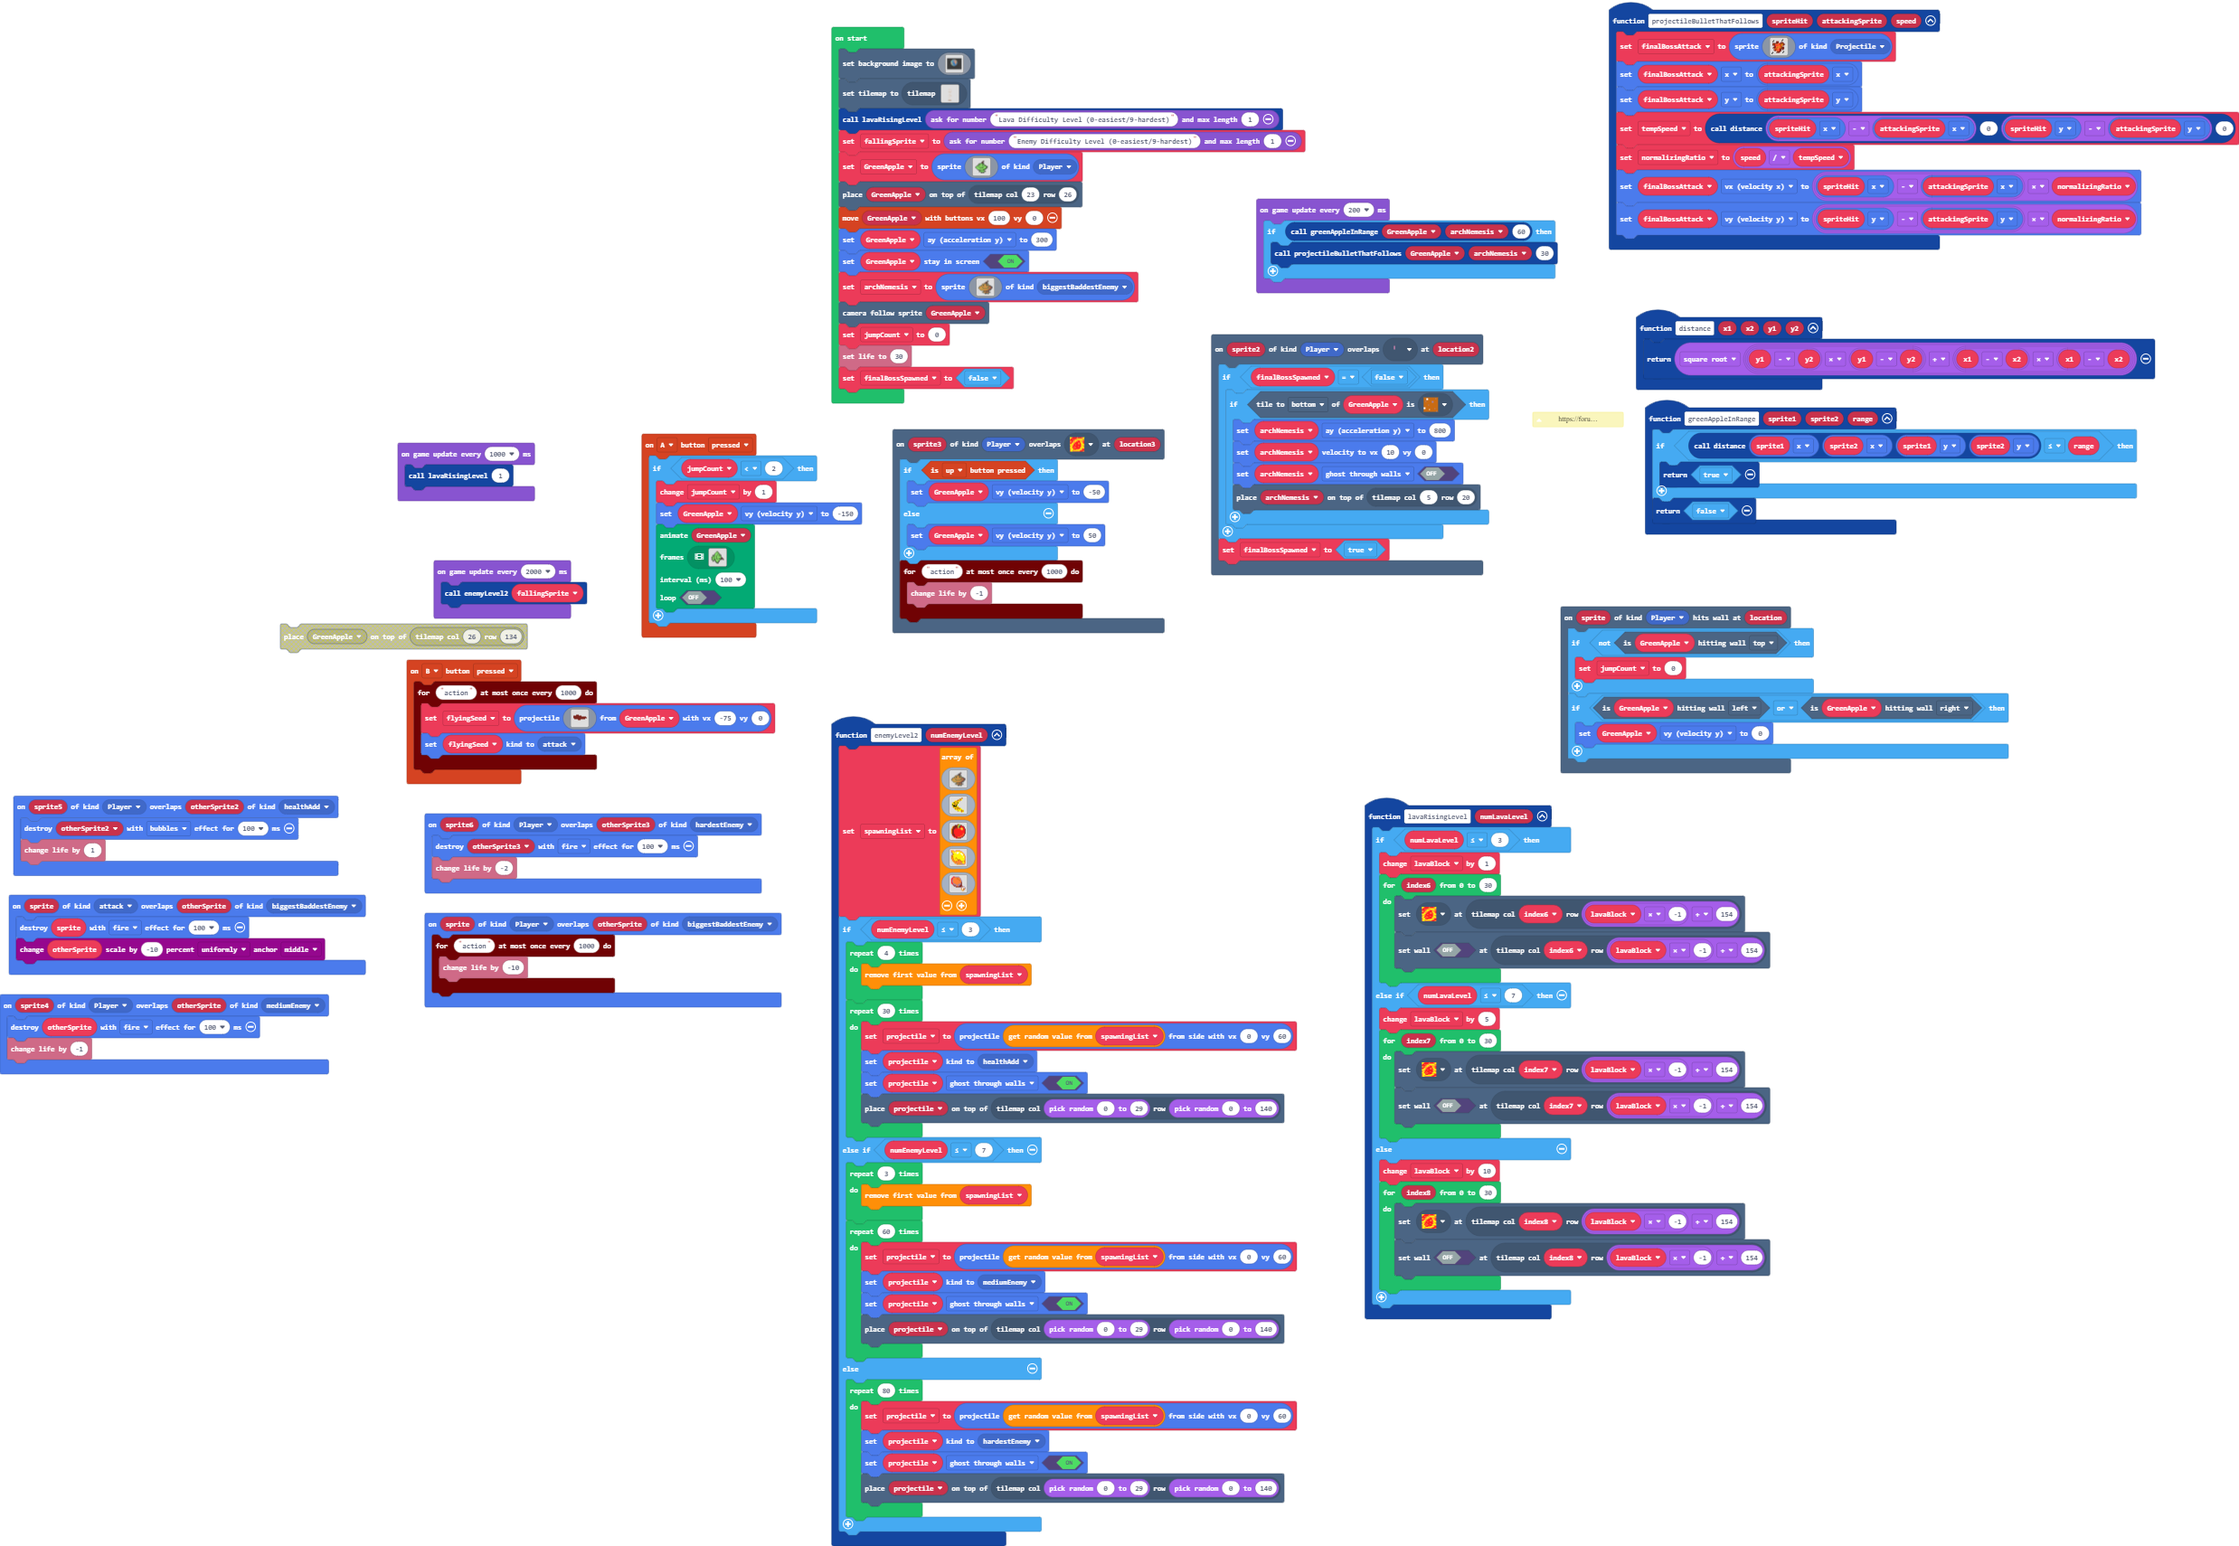
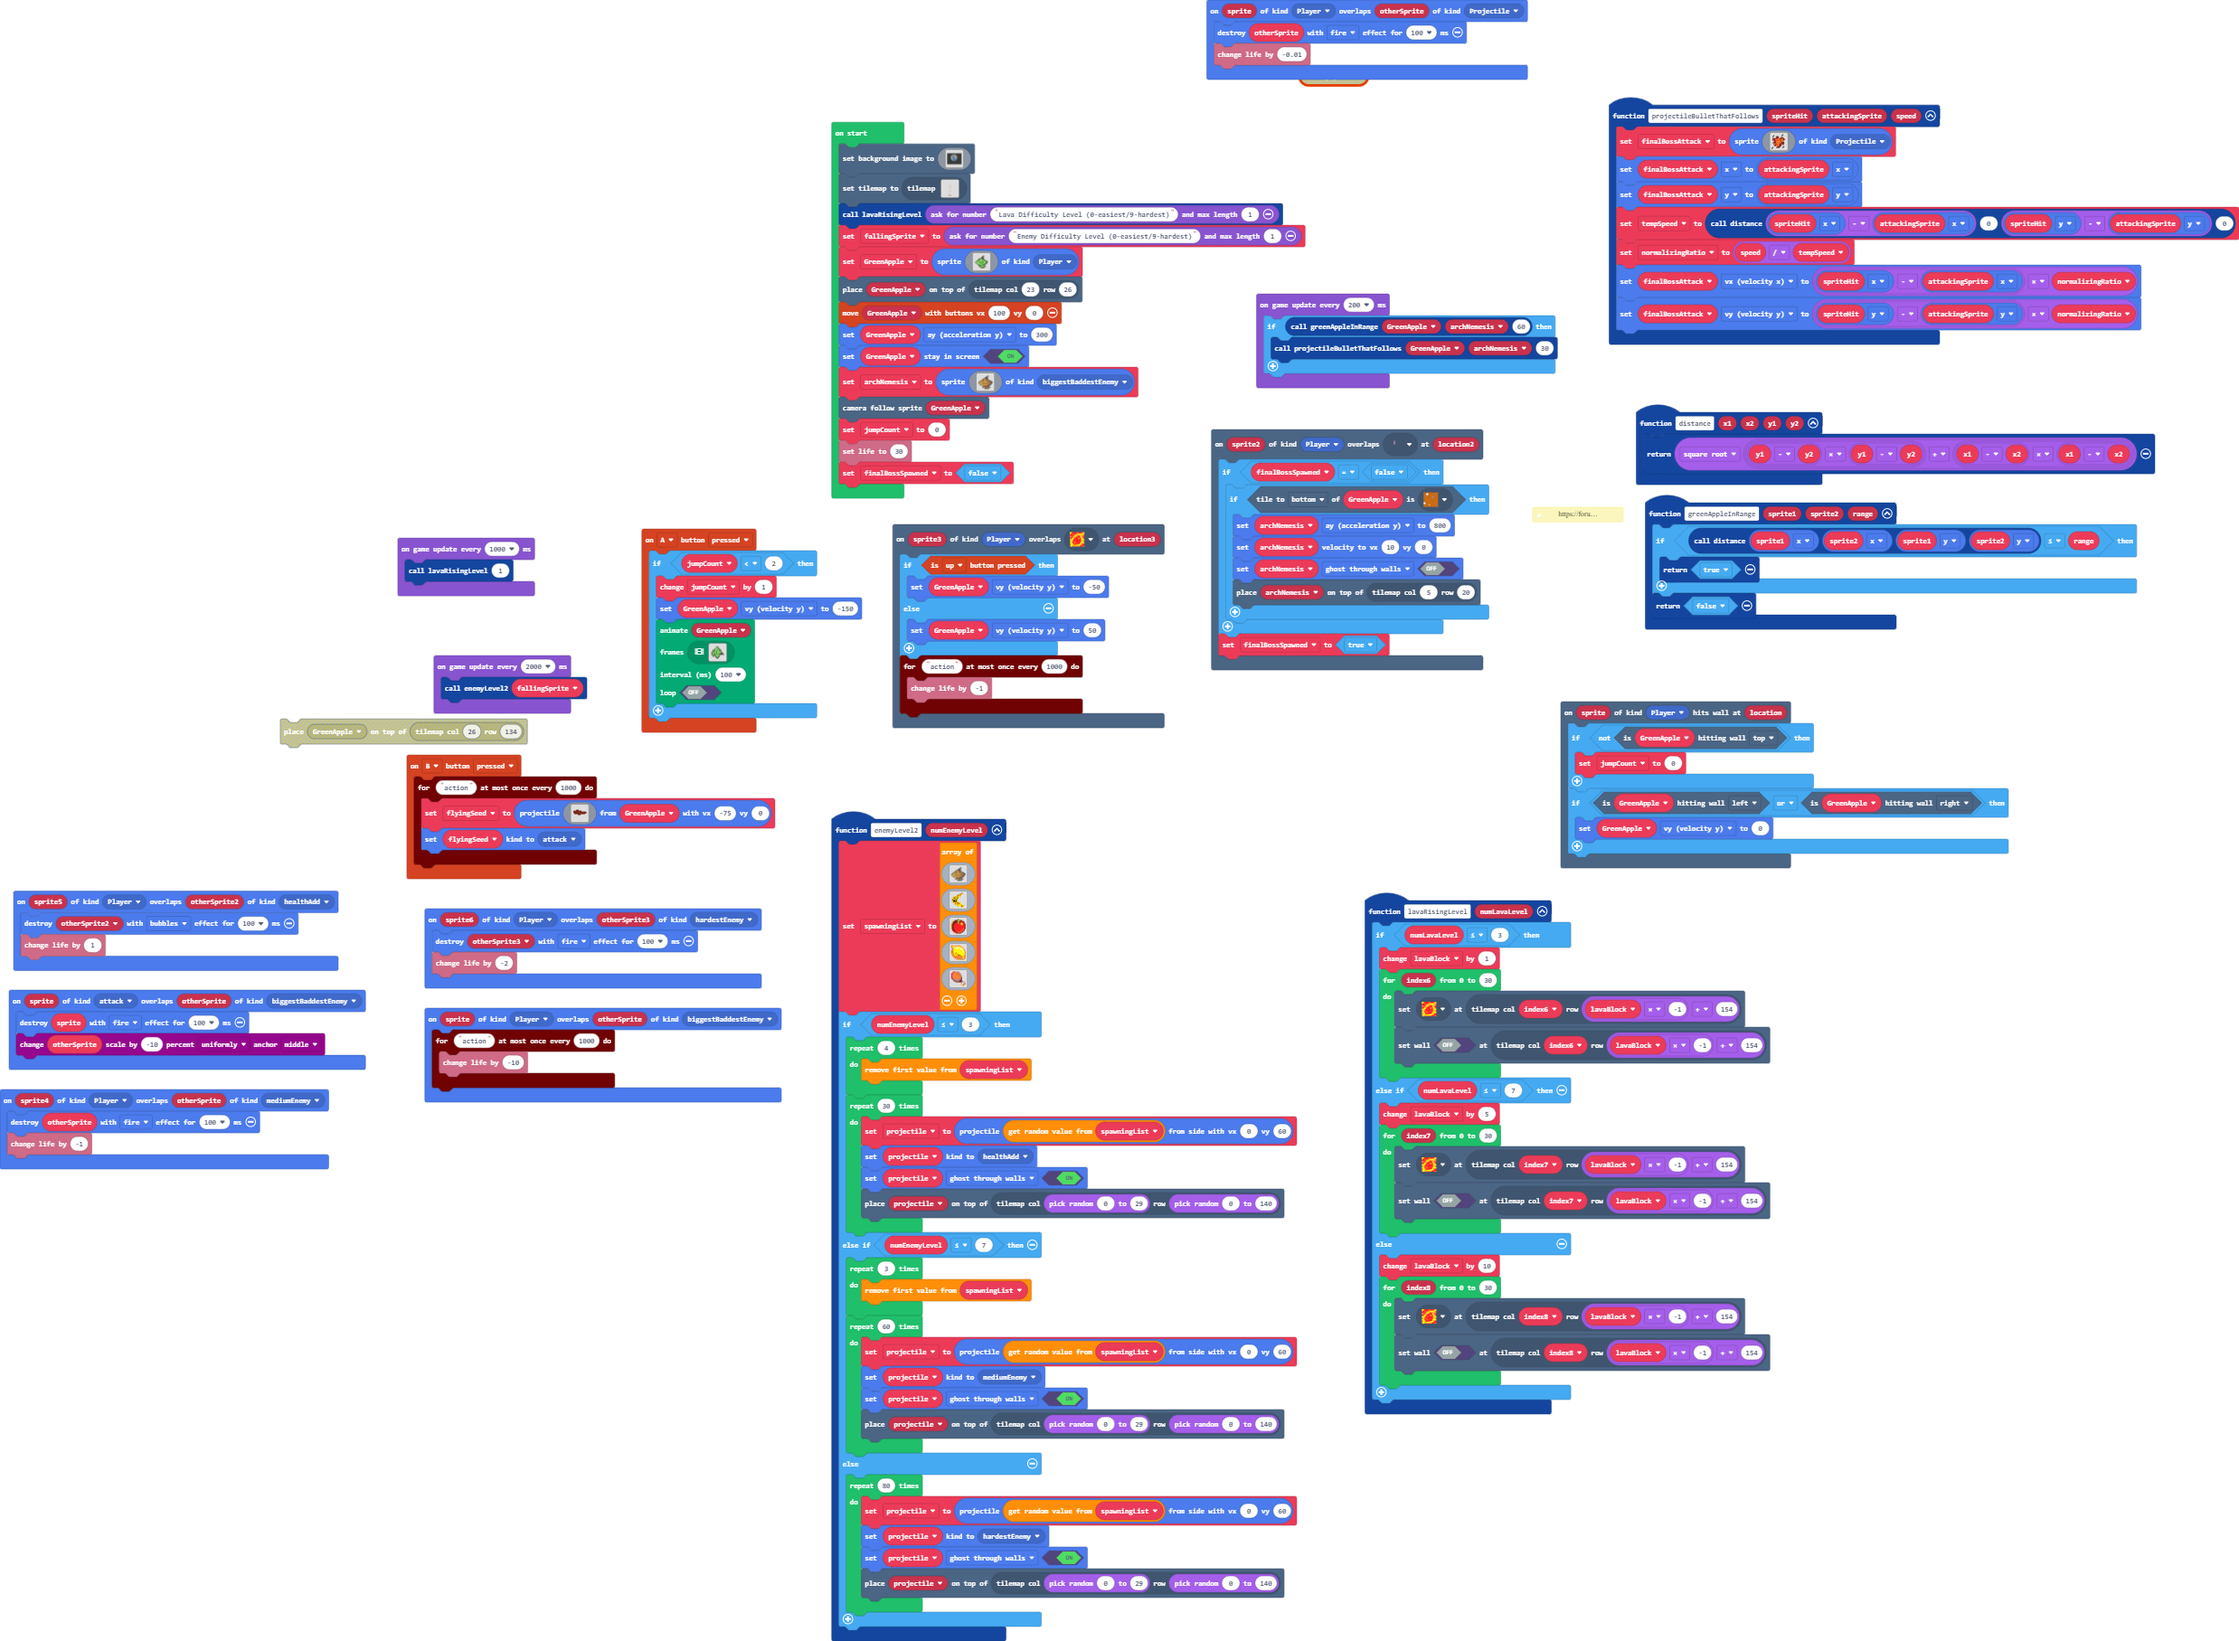
plaesplspsl

diff --git a/main.ts b/main.ts
@@ -264,6 +264,10 @@ scene.onOverlapTile(SpriteKind.Player, sprites.dungeon.hazardLava0, function (sp
         info.changeLifeBy(-1)
     })
 })
+sprites.onOverlap(SpriteKind.Player, SpriteKind.Projectile, function (sprite, otherSprite) {
+    sprites.destroy(otherSprite, effects.fire, 100)
+    info.changeLifeBy(-0.01)
+})
 function lavaRisingLevel (numLavaLevel: number) {
     if (numLavaLevel <= 3) {
         lavaBlock += 1
